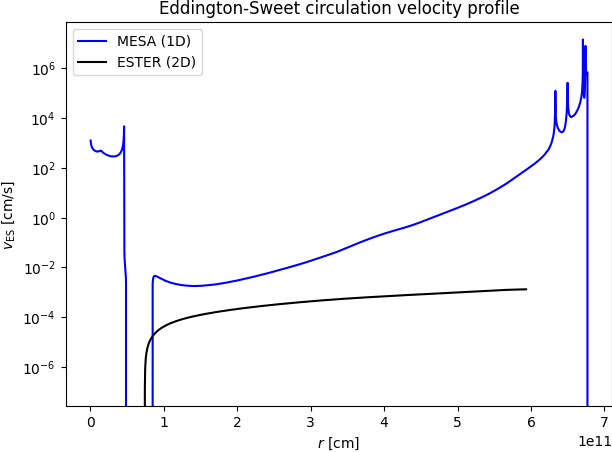
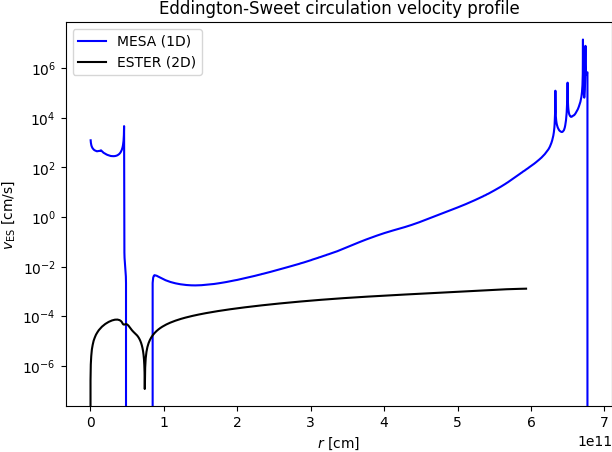
update tue lab2 plot to include abs() val of ester v_r

diff --git a/static/tuesday/lab-2-solution/plot.py b/static/tuesday/lab-2-solution/plot.py
@@ -27,7 +27,7 @@ def main():
     ester_R = ester["star"].attrs["R"]
     ester_Xc = ester["star"]["X"][0, 0]
     ester_r = ester["star"]["r"][-1] * ester_R
-    ester_vr = ester["star"]["vr"][-1] * ester_R / MYR
+    ester_vr = abs(ester["star"]["vr"][-1] * ester_R / MYR)
 
     print("ESTER Xc:", ester_Xc)
 

diff --git a/static/tuesday/lab-2/plot.py b/static/tuesday/lab-2/plot.py
@@ -27,7 +27,7 @@ def main():
     ester_R = ester["star"].attrs["R"]
     ester_Xc = ester["star"]["X"][0, 0]
     ester_r = ester["star"]["r"][-1] * ester_R
-    ester_vr = ester["star"]["vr"][-1] * ester_R / MYR
+    ester_vr = abs(ester["star"]["vr"][-1] * ester_R / MYR)
 
     print("ESTER Xc:", ester_Xc)
 

diff --git a/content/tuesday/lab-2.md b/content/tuesday/lab-2.md
@@ -3,7 +3,7 @@
 Led by: Philip Mocz
 
 * [Download the Lab](https://ssgithub.com/VincentVanlaer/mesa-school-labs/tree/main/static/tuesday/lab-2)
-* [Download the ESTER 2D models](https://ssgithub.com/VincentVanlaer/mesa-school-labs/tree/main/content/tuesday/ester_models)
+* [Download the ESTER 2D models](https://ssgithub.com/VincentVanlaer/mesa-school-labs/tree/main/static/tuesday/ester_models)
 * [Download solution](https://ssgithub.com/VincentVanlaer/mesa-school-labs/tree/main/static/tuesday/lab-2-solution)
 
 **Goal:** Compute the Eddington-Sweet circulation velocity, `v_ES`, for a star evolved with MESA,
